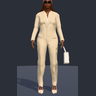
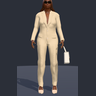
Female Executive: deep V neckline, fine pendant resting in it

diff --git a/src/core/garments/shirts.ts b/src/core/garments/shirts.ts
@@ -10,7 +10,7 @@ import { part } from './drape';
 import { clamp, hplane, mat, torsoY, type GarmentDef, type GarmentStyle, type GCtx, type GPart } from './kit';
 import { keepIslands, outfitCloth, outfitCovers, SHIRT_REGIONS, type Island } from './outfit-cut';
 import { Caster, OUTWARD } from './project';
-import { cord, ellipsoid, frameOf, hullRing, merge, rayRing, v3 } from './ring';
+import { boundaryChain, cord, ellipsoid, frameOf, hullRing, merge, rayRing, v3 } from './ring';
 
 /** A V neckline: its point's trunk height (tt), and half-width at the base of the neck (fraction of the shoulder width). */
 export interface VOpts {
@@ -142,9 +142,24 @@ function silkBlouse(g: GCtx, st: GarmentStyle): GPart[] {
   // The suit's skirt is the one wide island across the middle of its atlas.
   let mesh = keepIslands({ ...o.mesh, ref: Int32Array.from(o.ref) }, (i) => !(i.u0 < 0.05 && i.u1 > 0.7 && i.v0 > 0.44));
   if (g.layered.bottom && g.worn?.length) mesh = tuckInto(g, mesh);
+  // Worn open: a deep V from the collar down between the breasts, its edges folded back.
+  const b = g.body, sx = b.L.shoulderX, yTop = b.L.neckY + cm(1), yV = torsoY(b, 0.48);
+  const P = mesh.positions;
+  const inV = (x: number, y: number, z: number) => z > b.L.torsoZ && y > yV && y < yTop + cm(4) && Math.abs(x) < 0.26 * sx * clamp((y - yV) / (yTop - yV), 0, 1) ** 0.7;
+  mesh = compact(mesh, (_, c) => {
+    let x = 0, y = 0, z = 0;
+    for (const v of c) [x, y, z] = [x + P[v * 3] / c.length, y + P[v * 3 + 1] / c.length, z + P[v * 3 + 2] / c.length];
+    return !inV(x, y, z);
+  });
+  const vEdge = boundaryChain(mesh, (p) => p[2] > b.L.torsoZ && p[1] > yV - cm(2) && p[1] < yTop && Math.abs(p[0]) < 0.4 * sx);
+  let edgeLine = vEdge;
+  for (let it = 0; it < 5; it++) edgeLine = edgeLine.map((p, i) => (i === 0 || i === edgeLine.length - 1 ? p : v3.scale(v3.add(v3.add(edgeLine[i - 1], v3.scale(p, 2)), edgeLine[i + 1]), 0.25)));
   // Satin: a soft lustre (about 2 m of cloth per unit of the atlas).
   const m = outfitCloth(g, o, 'Silk blouse', st, 6, { roughness: st.pattern === 'satin' ? 0.32 : 0.6 });
-  return [{ mesh, material: m, hides: outfitCovers(g, o, mesh, SHIRT_REGIONS), smooth: true }];
+  return [
+    { mesh, material: { ...m, doubleSided: true }, hides: outfitCovers(g, o, mesh, SHIRT_REGIONS), smooth: true },
+    ...part(edgeLine.length > 4 ? cord(edgeLine, cm(0.25), false, 6) : null, m),
+  ];
 }
 
 export const SHIRTS: GarmentDef[] = [

diff --git a/src/core/garments/necklaces.ts b/src/core/garments/necklaces.ts
@@ -184,6 +184,21 @@ function goldNecklace(g: GCtx, st: GarmentStyle, drop = cm(7)): GPart[] {
   return [{ mesh: merge([cord(s.ring, cm(0.12), true), pendant])!, material: metal }];
 }
 
+/**
+ * A fine gold chain with a small drop pendant, resting on the skin inside an open neckline (under
+ * the collars of a blouse and jacket).
+ */
+function finePendant(g: GCtx, st: GarmentStyle): GPart[] {
+  const s = strand(g, cm(9), 0.1, true);
+  if (!s) return [];
+  let front = s.ring[0];
+  for (const p of s.ring) if (p[2] > front[2]) front = p;
+  const out = v3.norm([front[0] - s.centre[0], 0, front[2] - s.centre[2]]);
+  const drop = ellipsoid(frameOf(v3.madd(v3.madd(front, Y, -cm(0.9)), out, cm(0.15)), out, Y), [cm(0.45), cm(0.7), cm(0.18)], [0.5, 0.5], 12, 6);
+  const metal = mat('Gold pendant', null, { color: st.color, roughness: 0.2, metalness: 1 });
+  return [{ mesh: merge([cord(s.ring, cm(0.06), true, 5), drop])!, material: metal }];
+}
+
 /** Pearls: two strands. */
 function pearlNecklace(g: GCtx, st: GarmentStyle): GPart[] {
   const rows: PolyMesh[] = [];
@@ -275,6 +290,10 @@ export const NECKLACES: GarmentDef[] = [
   {
     id: 'gold_necklace_long', label: 'Long gold chain & pendant', slot: 'acc', patterns: ['solid'], color: '#d9a441', color2: '#000000',
     build: (g, st) => goldNecklace(g, st, cm(17)),
+  },
+  {
+    id: 'fine_pendant', label: 'Fine gold chain & pendant', slot: 'acc', patterns: ['solid'], color: '#d9a441', color2: '#000000',
+    build: finePendant,
   },
   {
     id: 'pearl_necklace', label: 'Pearl necklace', slot: 'acc', patterns: ['solid'], color: '#f2ece0', color2: '#000000',

diff --git a/src/core/params.ts b/src/core/params.ts
@@ -162,10 +162,10 @@ export const PRESETS: Record<string, Partial<HumanParams>> = {
   // Executive: a cream tailored pantsuit over a champagne silk blouse, pointed nude heels, an ivory
   // top-handle handbag, gold watch and necklace, dark sunglasses.
   'The Female Executive': {
-    gender: 0, age: 0.52, muscle: 0.45, weight: 0.42, height: 0.62, proportions: 0.85, breastSize: 0.55, breastFirmness: 0.7,
+    gender: 0, age: 0.52, muscle: 0.45, weight: 0.42, height: 0.62, proportions: 0.85, breastSize: 0.68, breastFirmness: 0.8,
     african: 0.65, asian: 0.1, caucasian: 0.25, eyes: 'blackbrown', eyebrows: 'eyebrow001', eyelashes: 'eyelashes02',
     hair: 'long01', earrings: 'studs', earringMetal: 'gold', expression: 'determined',
-    outfit: 'set_pantsuit', shoes: 'heels', carry: 'handbag', accessories: ['gold_necklace', 'watch_gold', 'sunglasses'],
+    outfit: 'set_pantsuit', shoes: 'heels', carry: 'handbag', accessories: ['fine_pendant', 'watch_gold', 'sunglasses'],
     garmentStyles: {
       silk_blouse: { pattern: 'satin', color: '#ead8bb', color2: '#fff4df' },
       heels: { pattern: 'patent', color: '#e2c6ab' },

diff --git a/src/core/garments/sets.ts b/src/core/garments/sets.ts
@@ -49,7 +49,7 @@ export function setStyles(set: OutfitSet, styles: Styles): Styles {
 
 export const OUTFIT_SETS: OutfitSet[] = [
   {
-    id: 'set_pantsuit', label: 'Pantsuit & silk blouse', top: 'silk_blouse', jacket: 'suit_jacket', bottom: 'suit_trousers', accessories: ['gold_necklace', 'watch_gold'], shoes: 'heels', carry: 'handbag',
+    id: 'set_pantsuit', label: 'Pantsuit & silk blouse', top: 'silk_blouse', jacket: 'suit_jacket', bottom: 'suit_trousers', accessories: ['fine_pendant', 'watch_gold'], shoes: 'heels', carry: 'handbag',
     patterns: ['suiting', 'linen', 'solid'], color: '#c9b597', color2: '#b9a382',
   },
   {

diff --git a/docs/characters.md b/docs/characters.md
@@ -39,7 +39,7 @@ Choose a full MakeHuman outfit, an **outfit set**, or **Separate pieces**:
   - armour and vests: leather armor, tactical vest, reflective hi-vis vest
   - eyewear: sunglasses, aviators
   - headwear: keffiyeh with agal (in the Hat picker), baseball cap, gele (pleated head tie with lace flowers and a knotted back; it covers the hair), beret, fur headband with feathers, beaded headband, fila cap, combat helmet, holo visor, goggles
-  - jewellery and charms: Cuban link chain, layered gold chains (rope and curb), long gold chain with pendant, gold signet ring, coral beads (iyun), gold necklace with pendant, pearl necklace, bangles, gold and silver bracelet watches, wrist beads, beaded collar, bead and cowrie necklaces, protective charms, brass cuffs, beaded and cowrie arm bands
+  - jewellery and charms: Cuban link chain, layered gold chains (rope and curb), long gold chain with pendant, fine gold chain with pendant, gold signet ring, coral beads (iyun), gold necklace with pendant, pearl necklace, bangles, gold and silver bracelet watches, wrist beads, beaded collar, bead and cowrie necklaces, protective charms, brass cuffs, beaded and cowrie arm bands
   - wraps and bands: shuka shoulder drape, arm guards, fur bands, arm wraps
   - other: neon accents, wrist watch
 - **Footwear:** MakeHuman shoes, sandals, combat boots, high heels (pointed pumps on stilettos; the feet are arched in the mesh, so every animation keeps the heel pose), flip-flops, sneakers (chunky white or worn grey), horsebit loafers (patent or smooth leather), leather slides, or barefoot.
